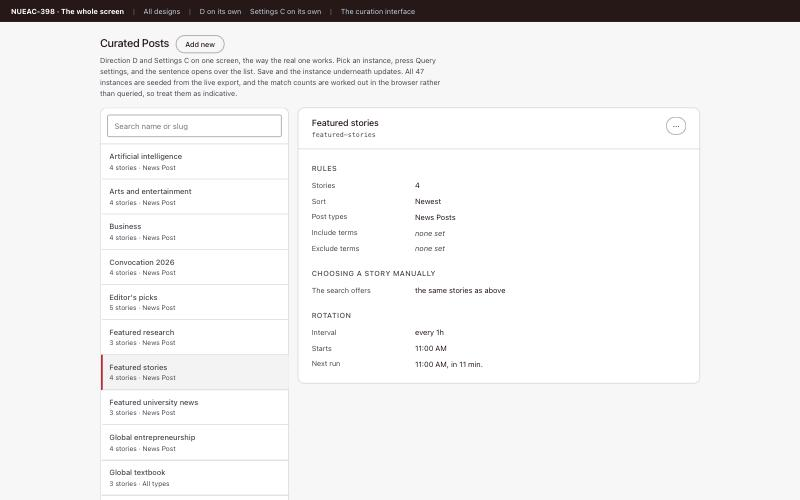
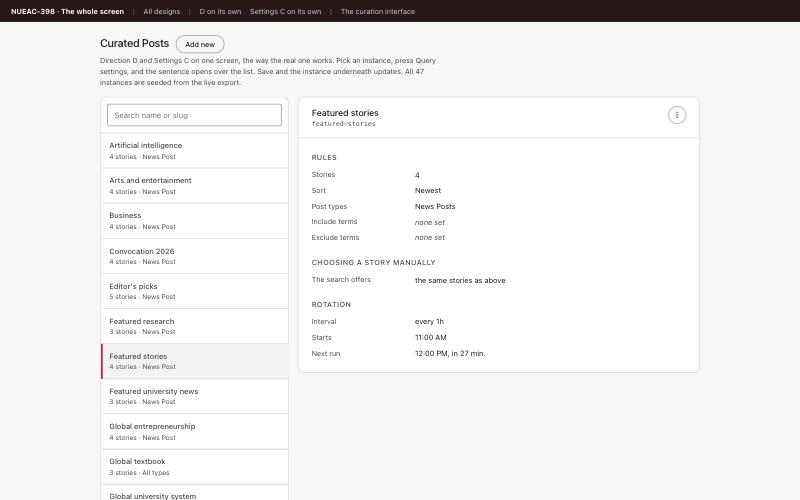
Record item 3 and re-shoot the index

diff --git a/TICKETS.md b/TICKETS.md
@@ -1659,3 +1659,25 @@ Two things fell out of it:
   handed back. A first switch with nothing kept still starts from a copy of
   the automatic query, which is what makes the work removing rather than
   finding.
+
+## The menu button becomes an icon button
+
+Xris: "this needs to be an icon button using ellipsis vertical. right now it's
+a text button with the text '...'"
+
+It was literally the character U+22EF in the button's text. Three reasons that
+is wrong beyond the obvious one. Typed dots sit on the text baseline rather
+than centred in the button. Their spacing comes from the font, so they drift
+with the type. And horizontal dots are the wrong glyph for a row menu, which is
+what he caught: vertical is the convention.
+
+Now `ellipsis-vertical-micro.svg` from `themes/ngn-theme/assets/images/icons`,
+inlined the same way the warning icon in these pages already is, with the
+source path in a comment above it. The button is square at 32px with the glyph
+at 16, centred by flex rather than by padding.
+
+The `aria-label` already named the button, and the SVG carries `aria-hidden`,
+so the accessible name is unchanged and nothing new reaches a screen reader.
+
+Both pages that have the button: 10 and 11. The earlier directions, 01, 02 and
+03, keep their own markup since they are superseded explorations.
